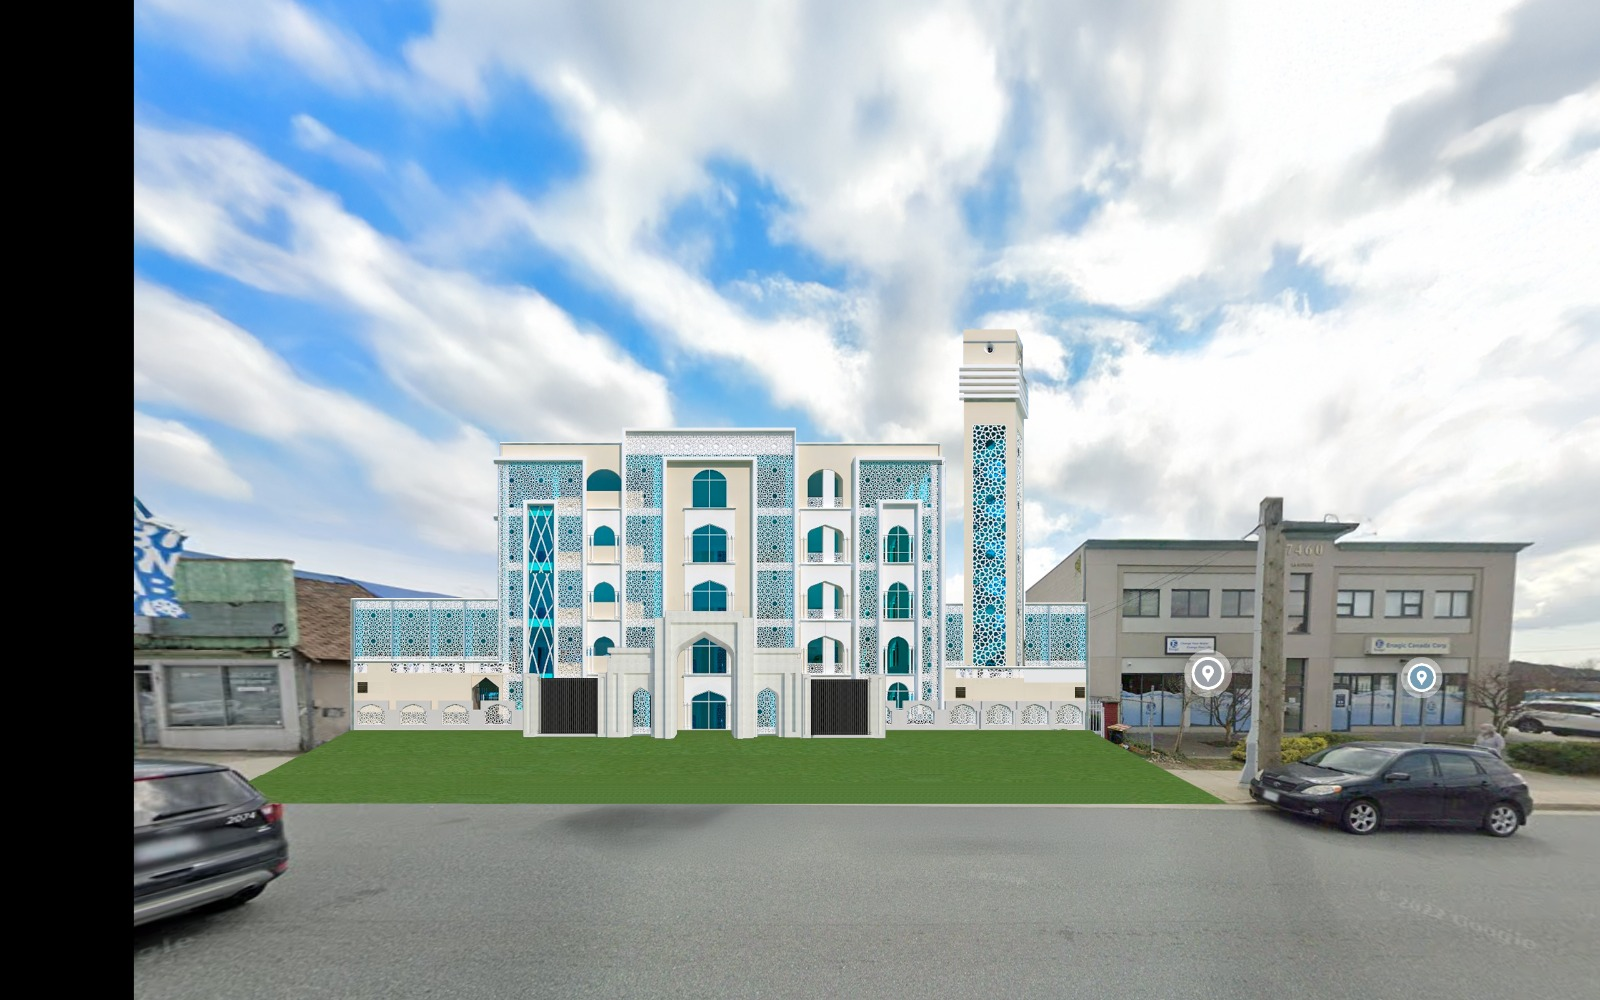
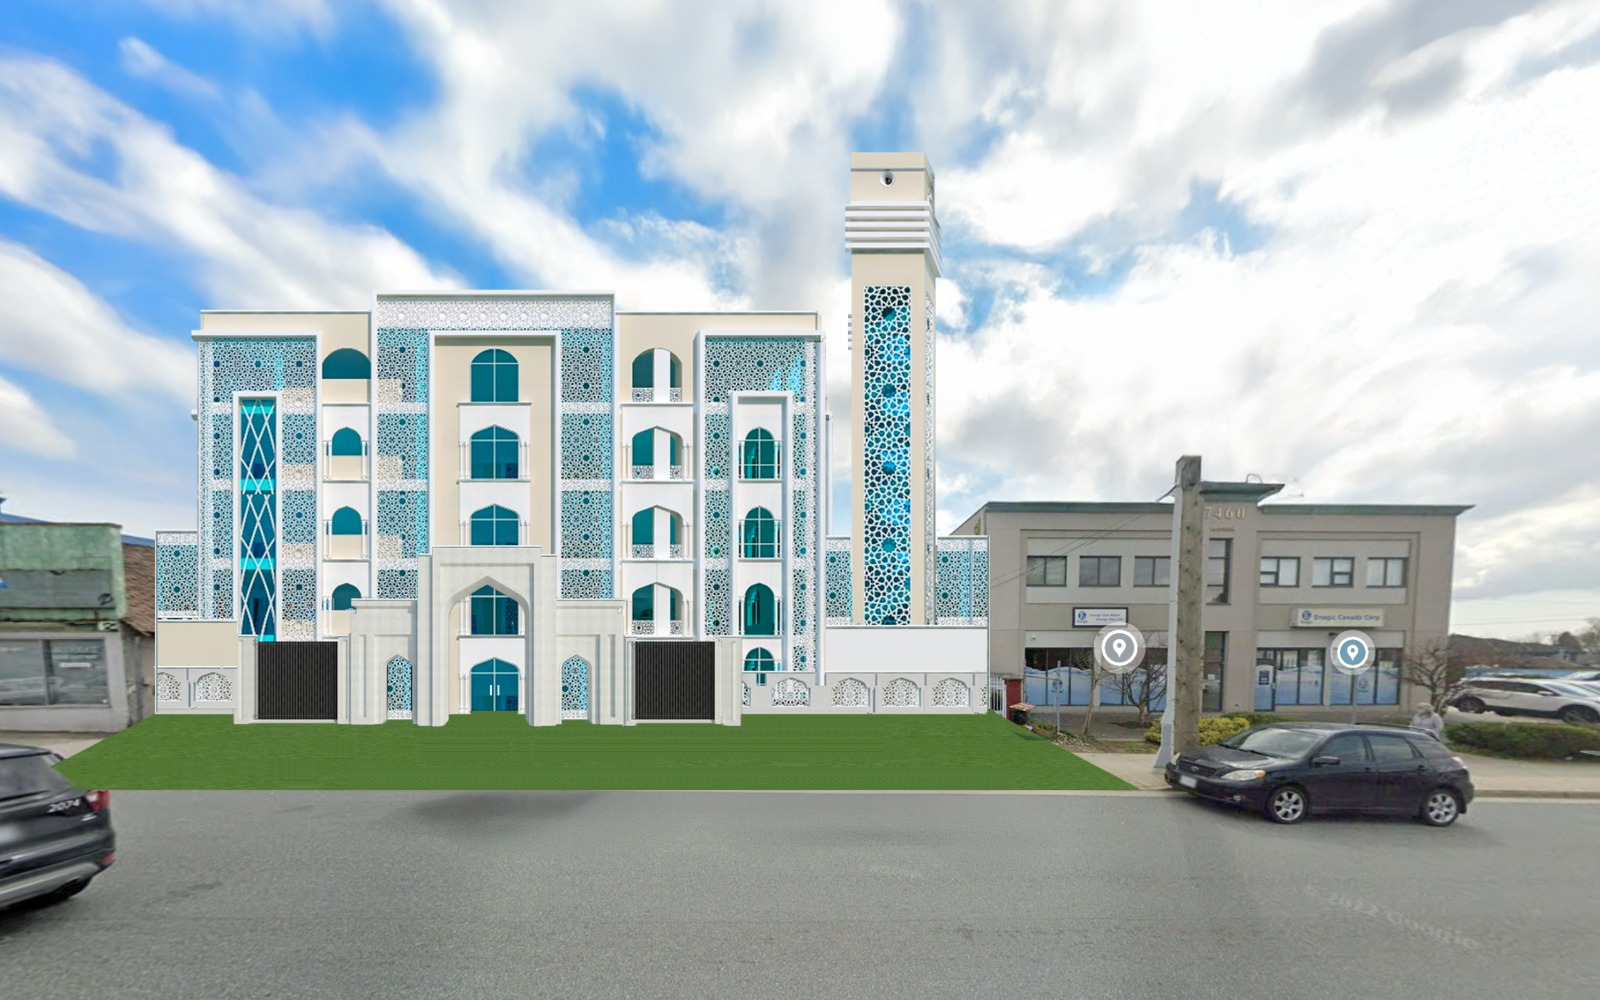
chore: Add a better future-masjid image. Made it the hero image of the masjid-project page

diff --git a/masjid-project.html b/masjid-project.html
@@ -27,22 +27,22 @@
         </div>
     </nav>
 
-    <div class="hero">
-        <div class="hero-content">
-            <h1>Building Our New Masjid</h1>
-            <p>Help us establish a center for worship and community</p>
-        </div>
+    <div class="hero future-masjid-hero">
     </div>
 
     <section class="masjid-project">
         <div class="project-header">
-            <h2>Baitul Mukarram Islamic Society Masjid Project</h2>
-            <p>6409 Arbroath Street, Burnaby, BC, V5E 1C3</p>
+            <h2>Building Our New Masjid</h2>
+            <p>7468 Edmonds Street, Burnaby, BC, V3N 182</p>
         </div>
 
         <div class="quran-quote">
             "Those who spend their wealth [in Allah's way] by night and by day, secretly and publicly - they will have their reward with their Lord. And no fear will there be concerning them, nor will they grieve" (Al-Quran 2:274)
         </div>
+
+        <div class="hadith-quote">
+          The Prophet (ﷺ) said: "Whoever builds a mosque for Allah, Allah will build for him a house in Paradise." (Sahih Bukhari)
+      </div>
 
         <div class="project-details">
             <div class="project-info">
@@ -68,14 +68,6 @@
                     <li>Organize social and community service initiatives</li>
                 </ul>
             </div>
-        </div>
-
-        <div class="project-images">
-            <img src="img/future-masjid.jpeg" alt="Future Masjid Design">
-        </div>
-
-        <div class="hadith-quote">
-            The Prophet (ﷺ) said: "Whoever builds a mosque for Allah, Allah will build for him a house in Paradise." (Sahih Bukhari)
         </div>
 
         <div class="donation-info">

diff --git a/styles.css b/styles.css
@@ -608,3 +608,7 @@ footer a:hover {
     background-color: #e6f2ff;
     border-left: 4px solid #1F665C;
 }
+
+.future-masjid-hero {
+    background: url('img/future-masjid.jpeg') top center no-repeat;
+}
